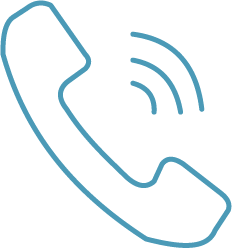
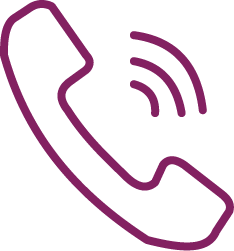
new

diff --git a/overmij.html b/overmij.html
@@ -28,19 +28,19 @@
 				</br>
 				</br>Het valt mensen op dat ik goed in samen werken ben. Tijdens samenwerkingen neem ik graag de leidende rol. Wanneer iemand in het team niet goed meewerkt probeer ik hem positief te motiveren in plaats van boos te worden. Op deze eigenschap krijg ik veel positieve reacties. Kortom, ik ben een leidend, georganiseerd, zelfstandig, veel eisend, ijverig en vooral een enthousiaste student die onwijs veel plezier heeft met het volgen van CMD.
 			</div>
-			<div class="achtergronddesign">
-			</div>
 			<div class="grid-item tekst doel">
 				<h3>Mijn doel</h3>
 				<p>De allerleukste projecten die ik heb gehad, hebben allemaal één ding gemeen: Mensen helpen. Gebruiksvriendelijkheid is in mijn ogen het aller belangrijkste wat er is. Zo vind ik het onwijs interessant om concepten te bedenken voor speciale doelgroepen. Denk aan doven, blinden en verstandelijk beperkten. Want de doorsnee mens vind zijn weg wel, met of zonder apps. Maar deze doelgroep kunnen de bestaande apps helaas niet gebruiken. Het is mijn doel om later wat te gaan betekenen voor hen. </p>
 			</div>
-			<div class="grid-item slider">
-				<img class="mySlides" src="images/horizontaal5.jpg">
-				<img class="mySlides" src="images/horizontaal4.jpg">
-			</div>
-			<div class="grid-item tekst hobby">
-				<h3>Hobby's</h3>
-				<p>Naast het volgen van mijn geliefde opleiding heb ik nog meer hobby's en ben ik erg slecht in stilzitten. Het liefst ben ik altijd bezig en wanneer ik niets te doen heb zorg ik wel dat ik wat leuks ga doen. Zo breng ik de grootste tijd door bij familie, vrienden of ben ik op het hockeyveld te vinden. Nu ik een blessure heb ben ik een trouwe supporter van mijn team. Daarnaast werk ik met heel veel plezier bij de bakker als verkoop medewerker, hier snijd ik dagelijks honderden broden aan voor de mensen uit mijn dorp.</p>
+			<div class="flexcontainer">
+					<div class="grid-item slider">
+						<img class="mySlides" src="images/horizontaal5.jpg">
+						<img class="mySlides" src="images/horizontaal4.jpg">
+					</div>
+					<div class="grid-item tekst hobby">
+						<h3>Hobby's</h3>
+						<p>Naast het volgen van mijn geliefde opleiding heb ik nog meer hobby's en ben ik erg slecht in stilzitten. Het liefst ben ik altijd bezig en wanneer ik niets te doen heb zorg ik wel dat ik wat leuks ga doen. Zo breng ik de grootste tijd door bij familie, vrienden of ben ik op het hockeyveld te vinden. Nu ik een blessure heb ben ik een trouwe supporter van mijn team. Daarnaast werk ik met heel veel plezier bij de bakker als verkoop medewerker, hier snijd ik dagelijks honderden broden aan voor de mensen uit mijn dorp.</p>
+					</div>
 			</div>
 			<div class="grid-item tekst kenmerken">
 				<h3>Kenmerken</h3>

diff --git a/styles/overmij.css b/styles/overmij.css
@@ -9,16 +9,10 @@
 
 .mySlides{
 	width: 100%;
-	height:100%;
 }
 
-.achtergronddesign {
-	background-image: url(../images/achtergronddesignmobiel.jpg);
-	background-attachment: fixed;
-	min-height: 400px;
-	background-size: cover;
-	background-repeat: no-repeat;
-	background-position: top; 
+.slider {
+	background-color: #F4F9F9;
 }
 
 .pijl {
@@ -26,12 +20,14 @@
 }
 
 .ikals {
-	background-color: #F4F9F9;
+	background-color: #F2E8F2;
 }
 
 .hobby{
 	background-color: #F4F9F9;
 }
+
+
 
 @media screen and (min-width: 700px){
 	.flex-container {
@@ -41,69 +37,35 @@
 	.flex-item {
 		flex: 1;
 	}
+	
+	.tekst {
+		padding-left: 70px;
+		padding-right: 70px;
+	}
 }
 	
 	
 @media screen and (min-width: 1200px) {
-	.achtergronddesign {
-		display: none;
-	}
-	
-	.grid-container {
-		display: grid;
-		grid-template-columns: 3fr 2fr 3fr;
-	}
-	
-	.grid-item {
-		margin: 5px;
-	}
-	
-	.kop {
-		grid-column-start: 1;
-		grid-row-start: 1;
-		grid-column-end: 4;
-	}
-	
-	.ikals {
-		grid-column-start: 1;
-		grid-row-start: 2;
-		grid-row-end: 4;
-		border-bottom: 2px solid #EAEFEF;
-		border-right: 2px solid #EAEFEF;
-		background-color: white;
-	}
-	
-	.doel {
-		grid-column-start: 2;
-		grid-row-start: 2;
-		grid-column-end: 4;
-		border-bottom: 2px solid #EAEFEF;
-		border-left: 2px solid #EAEFEF;
-	}
-	
-	.slider {
-		grid-column-start: 2;
-		grid-row-start: 3;
-		grid-column-end: 4;
-		border-bottom: 2px solid #EAEFEF;
-		border-left: 2px solid #EAEFEF;
-		border-top: 2px solid #EAEFEF;
-	}
 
-	.kenmerken {
-		grid-column-start: 1;
-		grid-row-start: 4;
-		grid-column-end: 3;
-		border-top: 2px solid #EAEFEF;
-		border-right: 2px solid #EAEFEF;
+.flexcontainer {
+	display: flex;
+}
+
+.slider {
+	flex: 1;
+	padding: 8% 1% 9% 15%;
+}
+
+
+.tekst {
+		padding-left: 15%;
+		padding-right: 15%;
 	}
 	
-	.hobby{
-		grid-column-start: 3;
-		grid-row-start: 4;
-		border-top: 2px solid #EAEFEF;
-		border-left: 2px solid #EAEFEF;
-		background-color: white;
+.hobby {
+	flex:1;
+	padding-left: 2%;
+}
 }
 
 

diff --git a/contact.html b/contact.html
@@ -24,7 +24,7 @@
 				<div class="grid-container">
 					<div class="grid-item email">
 						<div class="icon">
-							<img src="images/icon1.png">
+							<center><img src="images/icon1.png"></center>
 						</div>
 						<p class="tekst">
 						<b>Email</b>
@@ -34,7 +34,7 @@
 					</div>
 					<div class="grid-item telefoon">
 						<div class="icon">
-							<img src="images/icon2.png">
+							<center><img src="images/icon2.png"></center>
 						</div>
 						<p class="tekst">
 						<b>Telefoon</b>
@@ -43,7 +43,7 @@
 					</div>
 					<div class="grid-item adress">
 						<div class="icon">
-							<img src="images/icon3.png">
+							<center><img src="images/icon3.png"></center>
 						</div>
 						<p class="tekst">
 						<b>Adress</b>

diff --git a/styles/main.css b/styles/main.css
@@ -12,11 +12,14 @@ p {
 h2 {
 	text-align: center;
 	text-transform: uppercase;
-	color: #6F9296;
+	color: #832161;
 	font-size: 40px;
+	margin:0;
+	padding: 30px;
 }
 
 h3 {
+	text-align: center;
 	font-size: 25px;
 	font-weight: lighter;
 	font-variant: small-caps;
@@ -26,15 +29,14 @@ header {
 	position: fixed;
 	top: 0;
 	text-align: center;
-	background-color: white;
 	width: 100%;
-	margin-bottom: 5%;
 	text-transform: uppercase;
 	box-shadow: 0px -6px 15px black;
 	display: flex;
 	padding-top: 3%;
 	padding-bottom: 3%;
 	z-index: 1;
+	background-color: #F2E8F2;
 }
 
 .header-item {

diff --git a/styles/contact.css b/styles/contact.css
@@ -6,7 +6,7 @@ main {
 }
 
 .grid-item {
-	border: 2px solid #BAD1CD;
+	border: 2px solid #F2E8F2;
 	margin-top: 20px ;
 	margin-bottom: 20px;
 	padding: 10px;
@@ -19,8 +19,6 @@ main {
 
 img {
 	width: 40%;
-	margin: auto;
-	display: block;
 }
 
 .tekst {

diff --git a/styles/home.css b/styles/home.css
@@ -15,7 +15,7 @@ body {
 }
 
 .intro {
-	background-color: #8A7090;
+	background-color: #343633;
 	line-height: 35px;
 	color: white;
 	padding: 5%;
